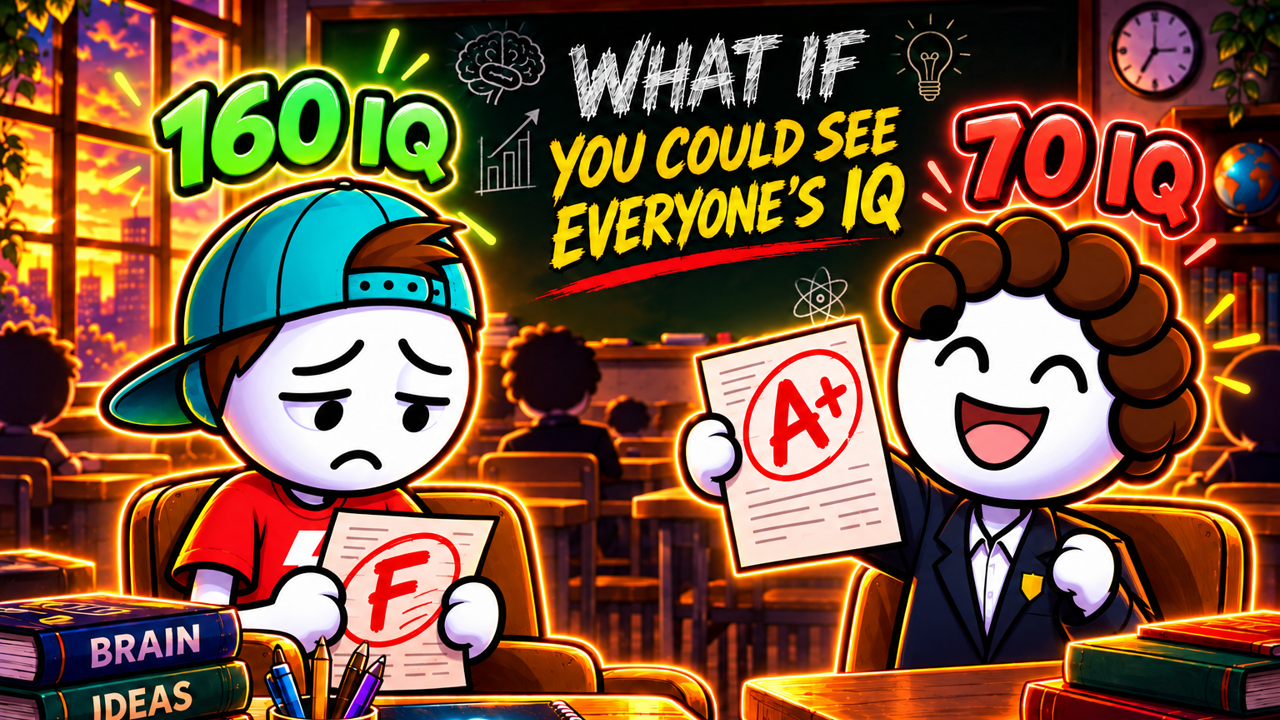
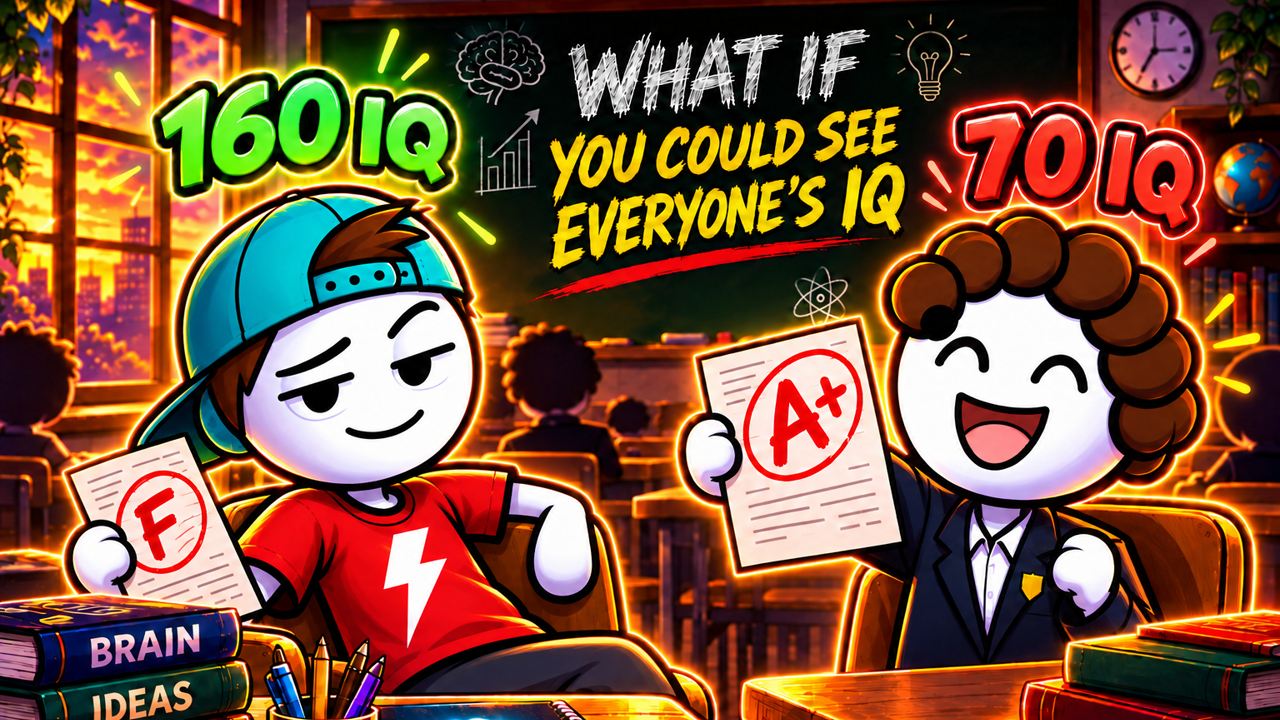
Ролик 10: превью v3 (Leon исподлобья, уверенный)

diff --git a/ролики/10 - What If You Could See Everyone's IQ/название-и-описание.md b/ролики/10 - What If You Could See Everyone's IQ/название-и-описание.md
@@ -38,4 +38,4 @@ what if, what if you could see everyone's iq, see everyone's iq, iq above your h
 Главы: старты сцен s001, s007, s015, s022, s031, s041, s053, s063, s071, s078, s091, s109, s116, s120 (`storyboard.md`, итог 8:55,4). Факты и источники в `проверка.md`.
 
 ## Превью
-`превью-1280x720.png` в утверждённом стиле (`канал-оформление/стиль-превью.md`): парты и класс, слева Leon с зелёным «160 IQ» расстроенный держит красную F, справа Caleb с красным «70 IQ» сияет и держит красную A+ высоко (интрига: у умного F, у «глупого» A+; версия 2 по правке владельца, версия 1 в `превью-gpt-1.png`), без чужих логотипов. Одна попытка через OpenAI Images, ≈ 6 центов, запуск только после «ок» владельца.
+`превью-1280x720.png` в утверждённом стиле (`канал-оформление/стиль-превью.md`): парты и класс, слева Leon с зелёным «160 IQ», спокойный и хитрый взгляд исподлобья, откинулся и небрежно держит красную F (версия 3; версия 2 `превью-gpt-2.png` с грустным Leon), справа Caleb с красным «70 IQ» сияет и держит красную A+ высоко (интрига: у умного F, у «глупого» A+; версия 2 по правке владельца, версия 1 в `превью-gpt-1.png`), без чужих логотипов. Одна попытка через OpenAI Images, ≈ 6 центов, запуск только после «ок» владельца.
